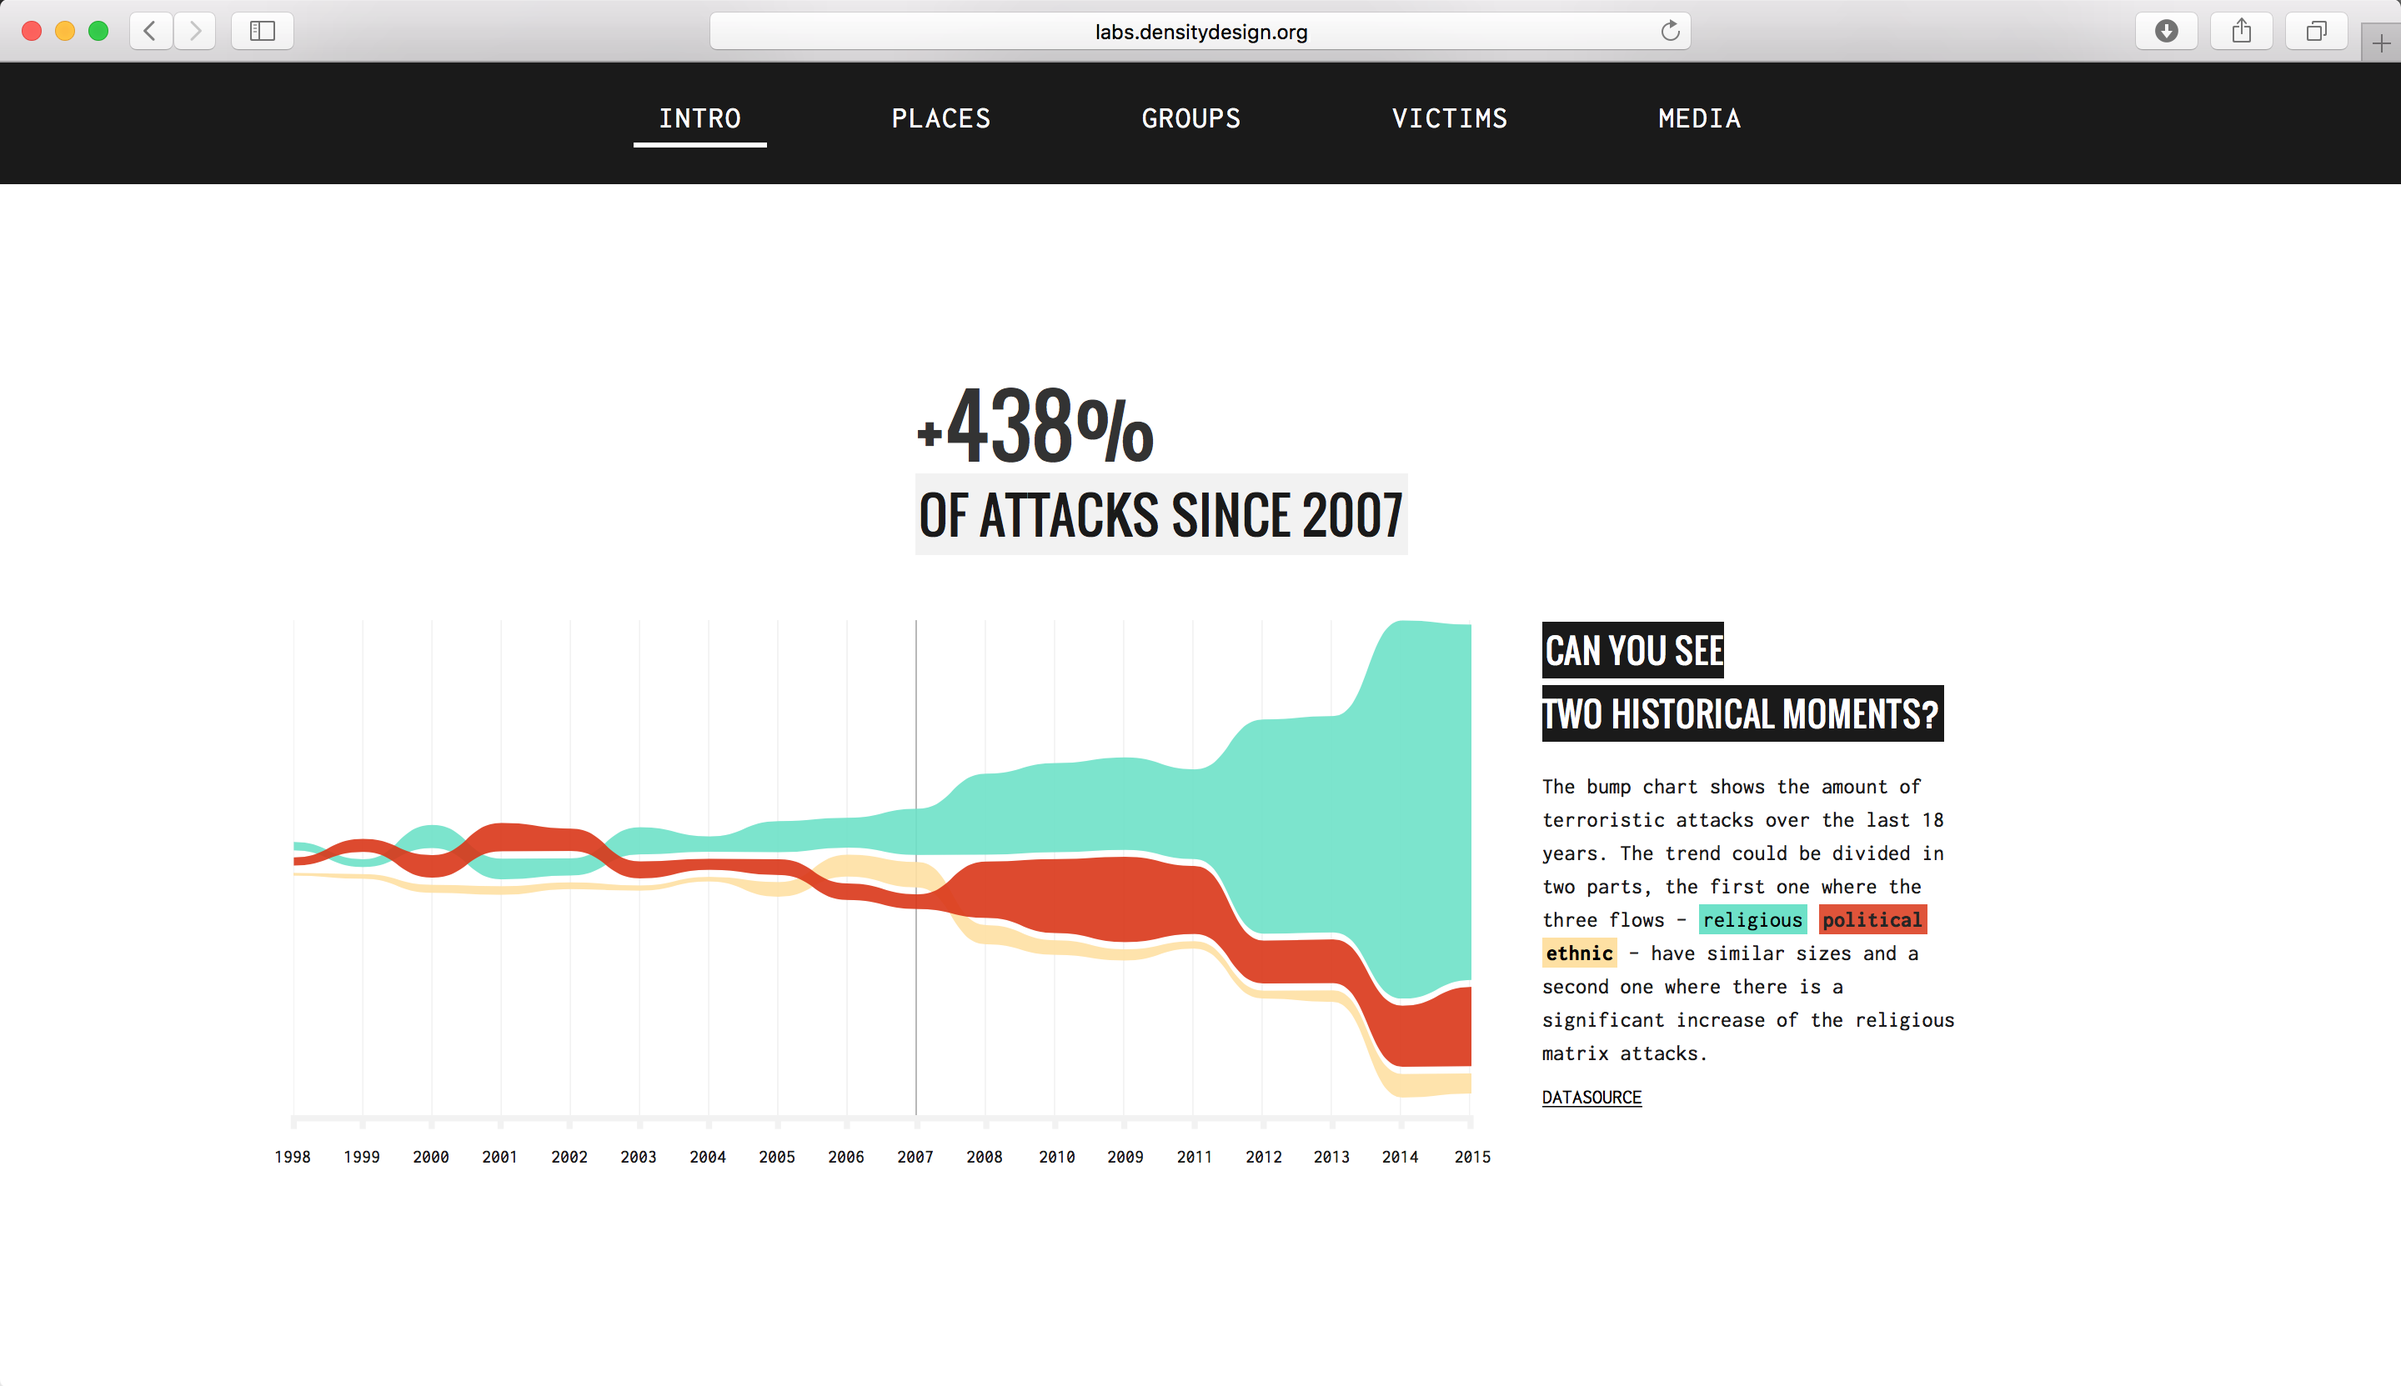
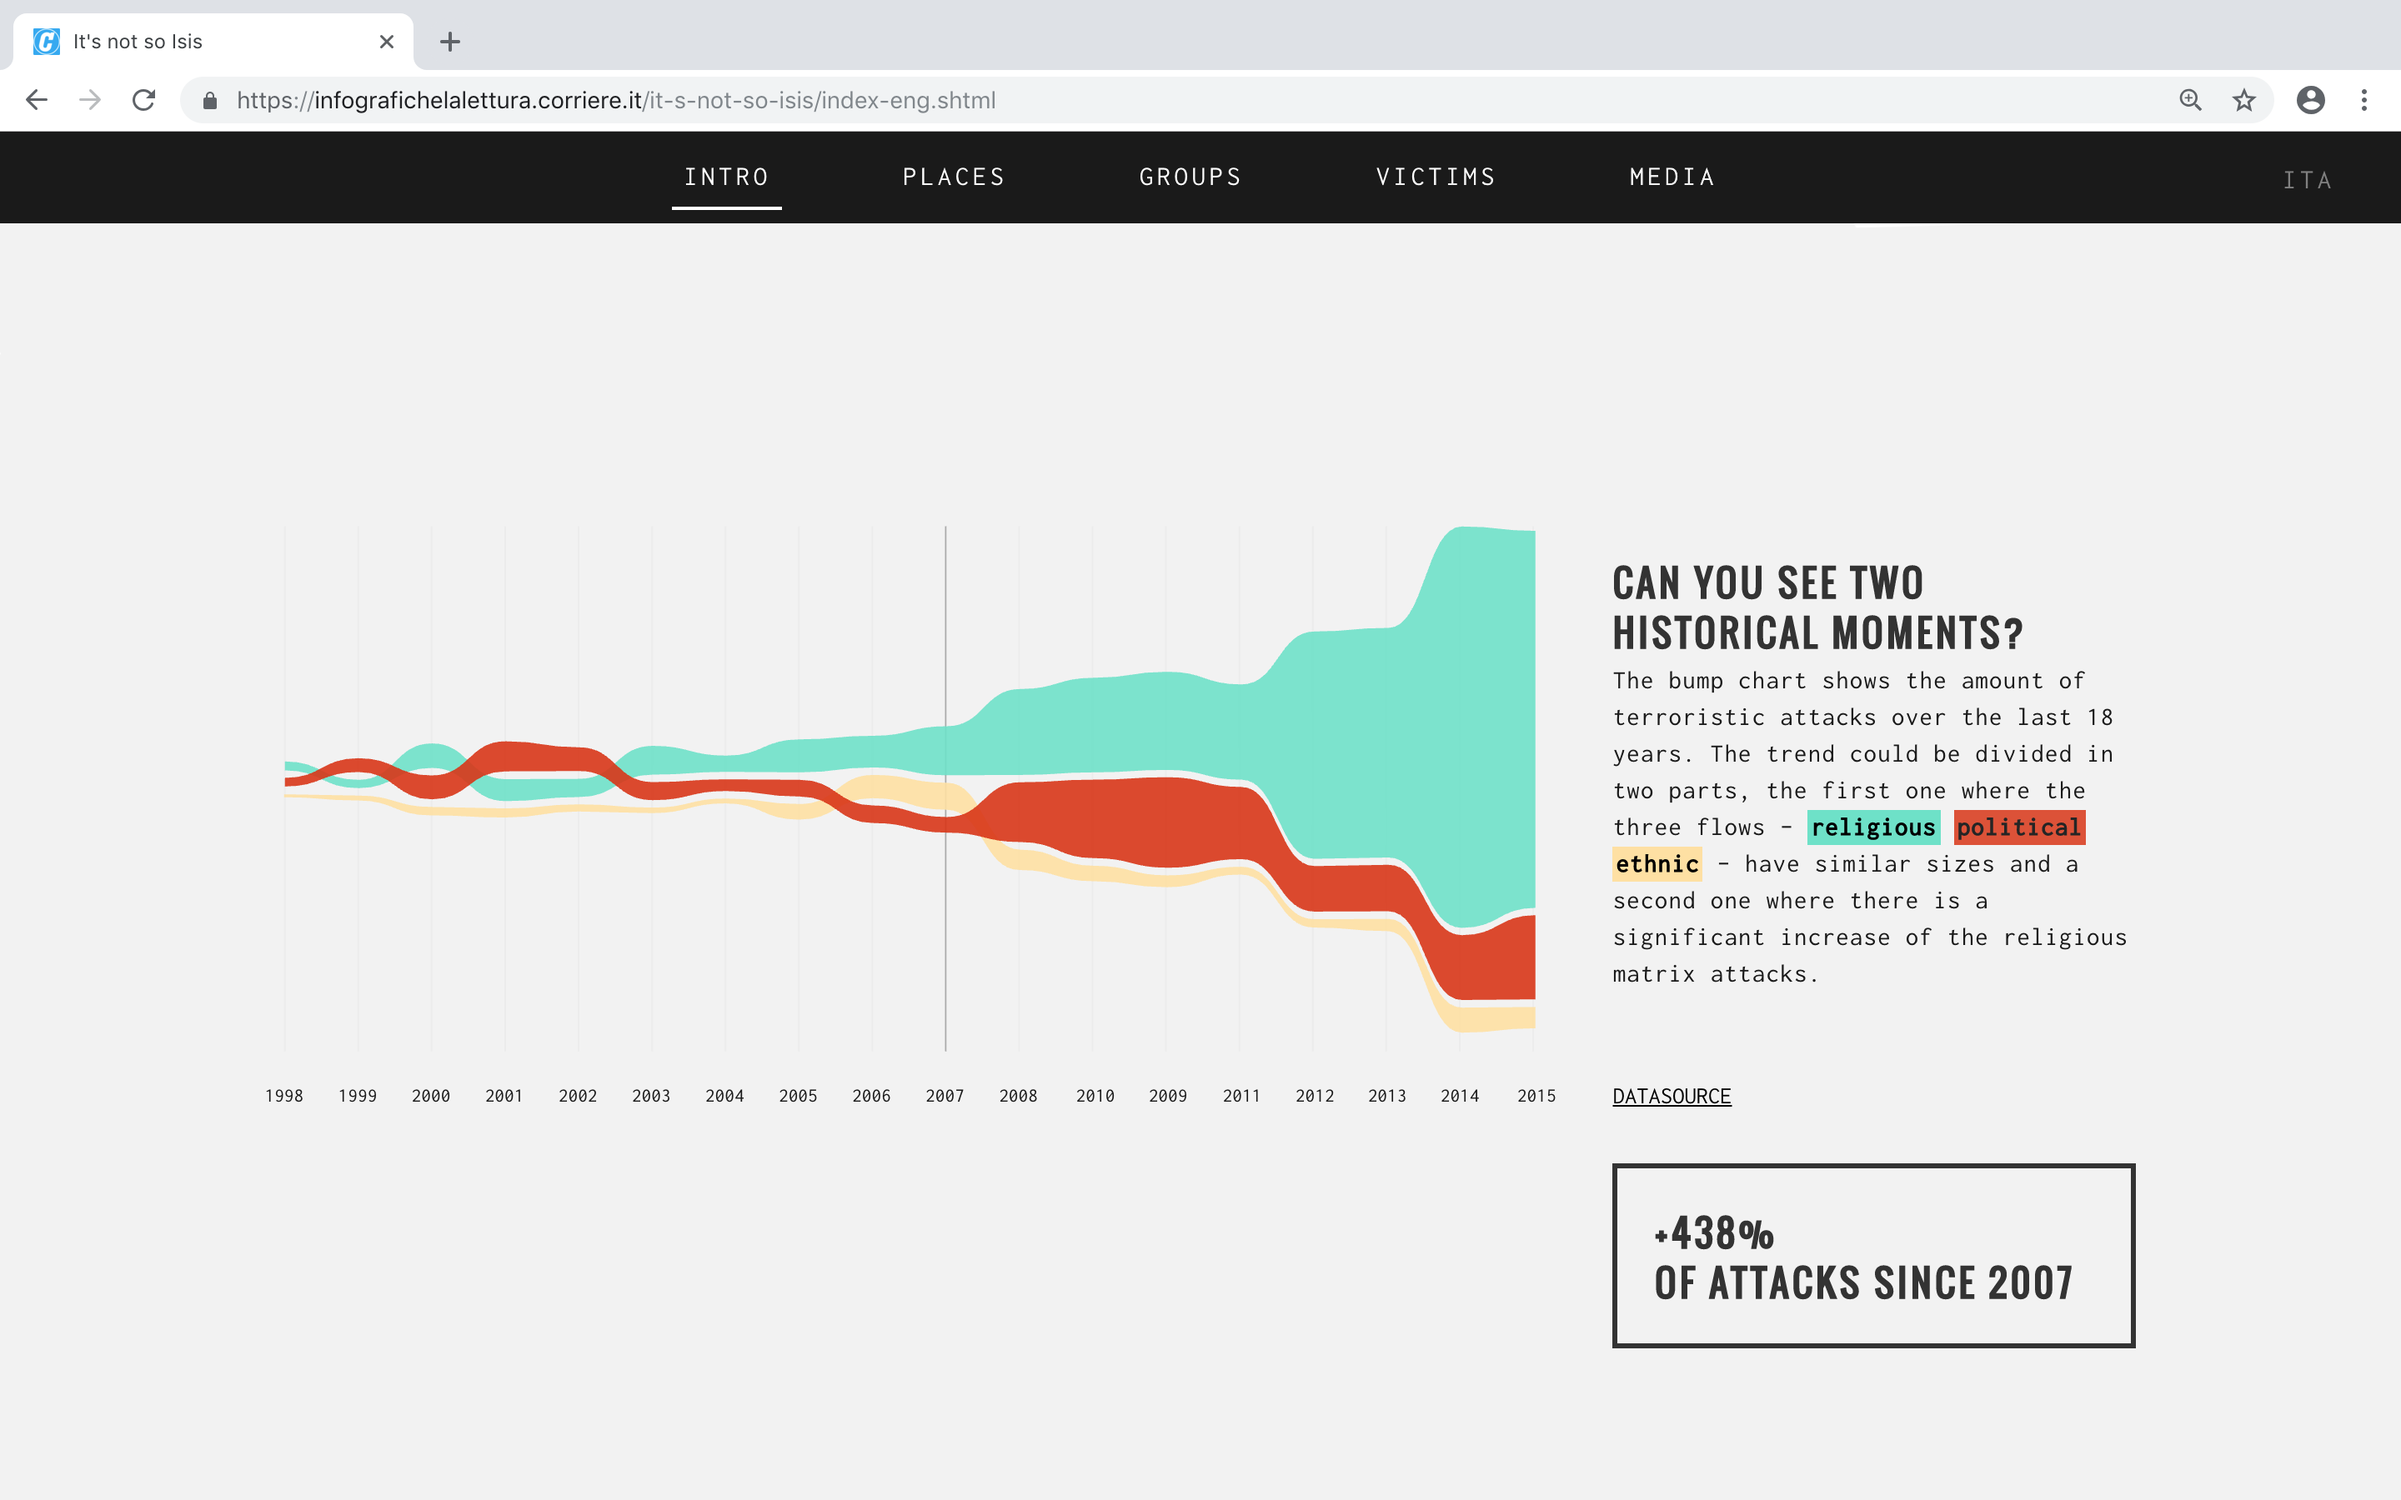
3nov18

Changed region(s): [[0.125, 0.276, 0.9062, 0.92], [0.0, 0.0, 1.0, 0.1533]]

diff --git a/insi.html b/insi.html
@@ -81,50 +81,57 @@
       
       
 <div class="container" style="margin-top: 120px;">        
-<div class="col-md-offset-1 col-md-10 col-sm-9 col-xs-12">
-	<h5>Information Design</h5> <h5>Web Design</h5> <h5>UX/UI</h5>
-	<h2>It's not so Isis</h2>
-	<h3>The complex shape of terrorism with its ideological vertices,<br>illustrated through data.</h3>
-
-	<img src="./image/insi/inizio_Ok.gif" class="img-responsive img-1">
-
-
-
-	<div class="col-md-12 intro">
-		<p>In the 2016/2017 edition of the Final Synthesis Studio at <a class="link_style" href="http://www.densitydesign.org" target="_blank">Density Design Lab</a> we were asked to use information visualization, both as an analytical and a communicative tool, to observe, understand, shape and communicate <span class="t_h">complex phenomena</span>.<br>In the first part of the course, we had to find and collect data from official sources, so we could get a first grasp of the depth and complexity of these issues. The result is a series of visualizations that represented a <span class="t_h">general overview</span> of the topic, seen with the eyes of the “official” sources.</p>
+	<div class="row">
+		<div class="col-md-offset-1 col-md-10 col-sm-9 col-xs-12">
+			<h5>Information Design</h5> <h5>Web Design</h5> <h5>UX/UI</h5>
+			<h2>It's not so Isis</h2>
+			<h3>The complex shape of terrorism with its ideological vertices,<br>illustrated through data.</h3>
+		</div>
+		<div class="col-md-offset-1 col-md-10" style="margin-top:20px;">
+			<h5>TEAM</h5>
+			<h6><a class="team_link" href="giuliazerbini.it" target="_blank">Francesco Cosmai</a> | <a class="team_link" href="giuliazerbini.it" target="_blank">Giacomo Flaim</a> | <a class="team_link" href="giuliazerbini.it" target="_blank">Francesco Giudice</a> | <a class="team_link" href="giuliazerbini.it" target="_blank">Barbara Nardella</a> | <a class="team_link" href="giuliazerbini.it" target="_blank">Giulia Zerbini</a></h6>
+		</div>
+	</div>
+	
+	<div class="row">
+		<div class="col-md-offset-1 col-md-10 col-sm-9 col-xs-12">
+			<img src="./image/insi/inizio_Ok.gif" class="img-responsive img-1">
+		</div>
+		<div class="col-md-offset-1 col-md-10 col-sm-9 col-xs-12">
+			<p>In the 2016/2017 edition of the Final Synthesis Studio at <a class="link_style" href="http://www.densitydesign.org" target="_blank">Density Design Lab</a> we were asked to use information visualization, both as an analytical and a communicative tool, to observe, understand, shape and communicate <span class="t_h">complex phenomena</span>.<br>In the first part of the course, we had to find and collect data from official sources, so we could get a first grasp of the depth and complexity of these issues. The result is a series of visualizations that represented a <span class="t_h">general overview</span> of the topic, seen with the eyes of the “official” sources.</p>
+		</div>
+		<div class="col-md-offset-1 col-md-10 col-sm-9 col-xs-12">
+			<img src="./image/insi/methaph-1.gif" class="img-responsive" style="width:100%">
+		</div>
+		<div class="col-md-offset-1 col-md-10 col-sm-9 col-xs-12">
+			<p>In order to analyse the primary version of terrorism, the one provided by data, we merged together two different datasets from START consortium: the GTD and BAAD2. We selected <span class="t_h">120 terroristic groups</span> and analysed their activities throughout 18 years - <span class="t_h">from 1998 to 2015</span> - in order to display a clear picture of the terrorist attacks evolution over time and by the sources.</p>
+		</div>
+		<div class="col-md-offset-1 col-md-10 col-sm-9 col-xs-12">
+			<img src="./image/insi/insi3.png" class="img-responsive" style="margin-bottom: 60px">
+		</div>
 	</div>
 
-
-
-	<img src="./image/insi/methaph-1.gif" class="img-responsive" style="width:100%">
-
-	<p>In order to analyse the primary version of terrorism, the one provided by data, we merged together two different datasets from START consortium: the GTD and BAAD2. We selected <span class="t_h">120 terroristic groups</span> and analysed their activities throughout 18 years - <span class="t_h">from 1998 to 2015</span> - in order to display a clear picture of the terrorist attacks evolution over time and by the sources.</p>
-
-	<img src="./image/insi/insi3.png" class="img-responsive" style="margin-bottom: 20px">
-
-	<div class="row full-website" style="margin-bottom: 90px">
-		<a href="http://labs.densitydesign.org/ddxii/es01/group04/index.html" target="_blank">
+	<div class="row full-website" style="margin-bottom: 90px;">
+			<a href="http://labs.densitydesign.org/ddxii/es01/group04/index.html" 	target="_blank">
 			<button type="button" class="btn my-btn" style="padding-top:12px">Explore the full website</button>
-		</a>
+			</a>
 	</div>
-	<div style="margin-bottom: 100px;">
-		<h4><u>project by</u></h4>
-		<h4>Francesco Cosmai | Giacomo Flaim | Francesco Giudice | Barbara Nardella | Giulia Zerbini</h4>
-	</div>
-
-	<div style="margin-bottom: 100px;">
-		<h4 style="text-align:center"><u>other projects</u></h4>
-		<h4 style="text-align:center; line-height:30px">Are you sure? pt.1 | Are you sure? pt.2 | Do you smoke? | When I woke up | Pigeons |<br> Civiltà Contadina | ...coming soon |</h4>
-	</div>
+	
+	
+	
+	
+	
 
 
-</div>
+
+
+
+
 </div>
         
           
      
  
-
-
+<script src="https://s3.amazonaws.com/infobawards/2017/kz02r2nVJG.js" id="iib-awards-badge"></script>
     
 </body>

diff --git a/css/style-project.css b/css/style-project.css
@@ -42,14 +42,13 @@ h3{
 h4{
     font-family: 'IBM Plex Sans', sans-serif;
     font-size: 14px;
-    letter-spacing: ;
     line-height: 21px;
-    color: #333333;
-    text-align: left;
-    margin: 0 0 0 0;
-    font-weight: bolder;    
-    margin-top: 8px;
-    text-align: center;
+    font-weight: 600;    
+    margin-top: 5px;
+	background-image: linear-gradient(-225deg, rgb(116, 223, 239), rgb(131, 180, 244), rgb(135, 137, 247), rgb(130, 89, 250), rgba(117, 7, 252));
+  	color: transparent;
+  	-webkit-background-clip: text;
+  	background-clip: text;
 }
 
 u{
@@ -70,14 +69,29 @@ h5{
     display: inline-block;
     padding-top: 0px;
     color: rgb(113, 7, 252);
-    background-image:linear-gradient(180deg,transparent 60%, rgba(116, 223, 239,.4) 0)
+    background-image:linear-gradient(180deg,transparent 60%, rgba(116, 223, 239,.4) 0);
 }
 
 h6{
     font-family: 'IBM Plex Sans', sans-serif;
-    font-size: 16px;
-    color: #333333;
-    text-transform:capitalize;
+    font-size: 14px;
+    color: #333333;	
+}
+
+.team_link{
+	color: #333333;
+	text-decoration:none;
+	background-image:linear-gradient(180deg,transparent 60%, rgba(116, 223, 239,.4) 0);
+	transition: 2s ease;
+}
+
+.team_link:hover{
+	color:#333333;
+	text-decoration: none;
+	background-image:linear-gradient(180deg,transparent 60%, rgba(113, 7, 252, .4) 0);
+	
+	
+	
 }
 
 h6 mark{
@@ -237,10 +251,9 @@ p {
   	color: white;
   	-webkit-background-clip:innerhit;
   	background-clip: inherit;
-  	
-  	
-  	
 }
+
+
 
 /*
 .btn-mio{
